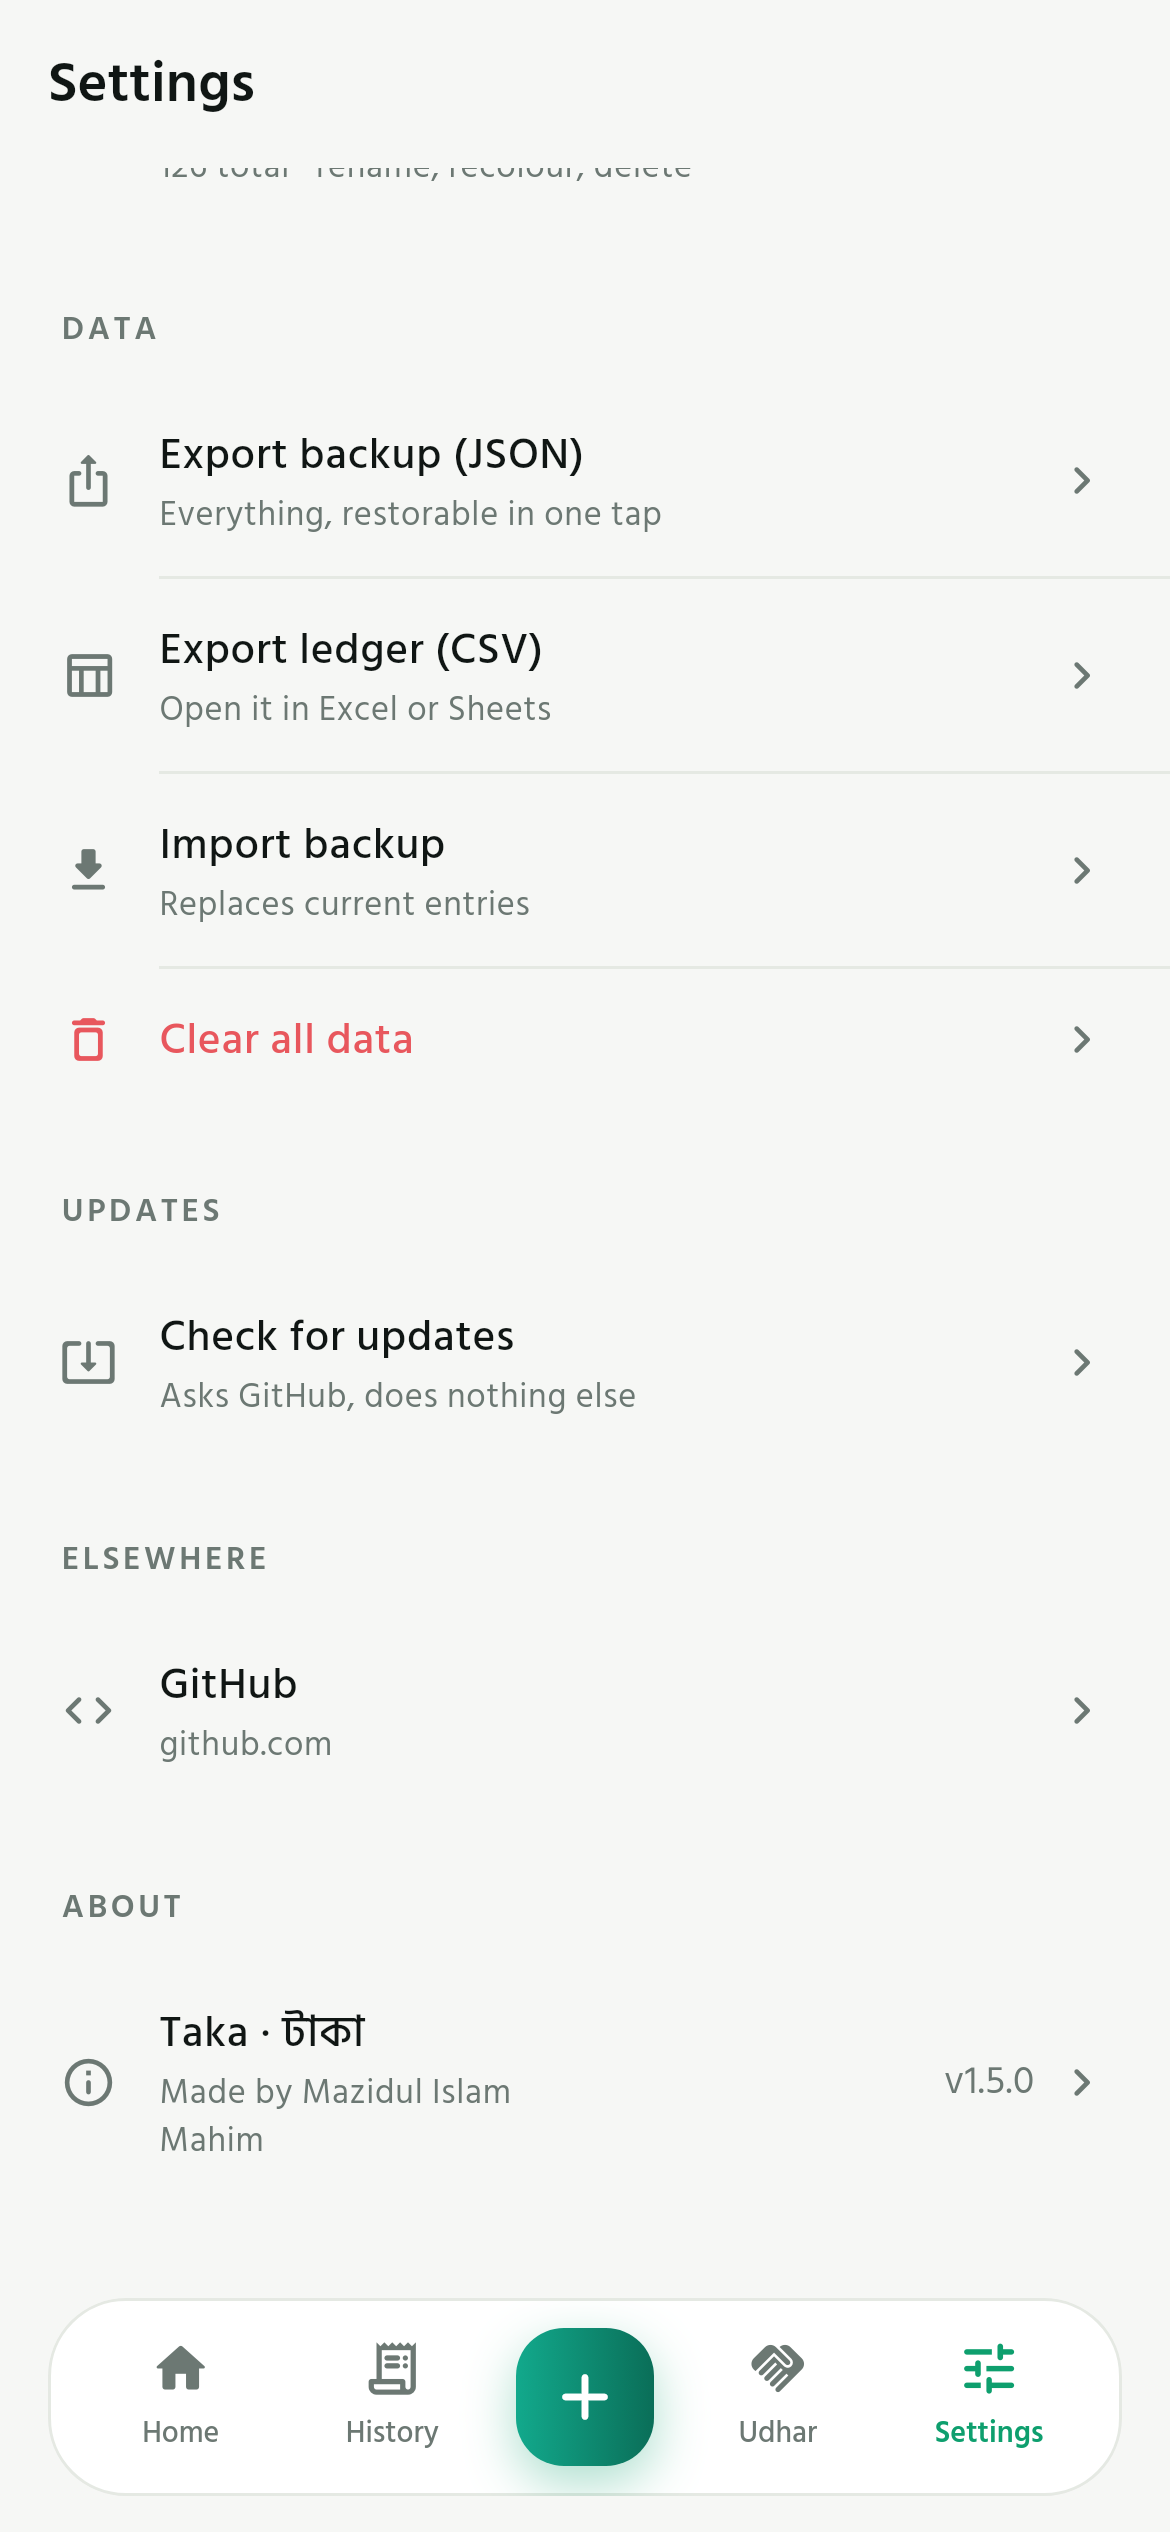
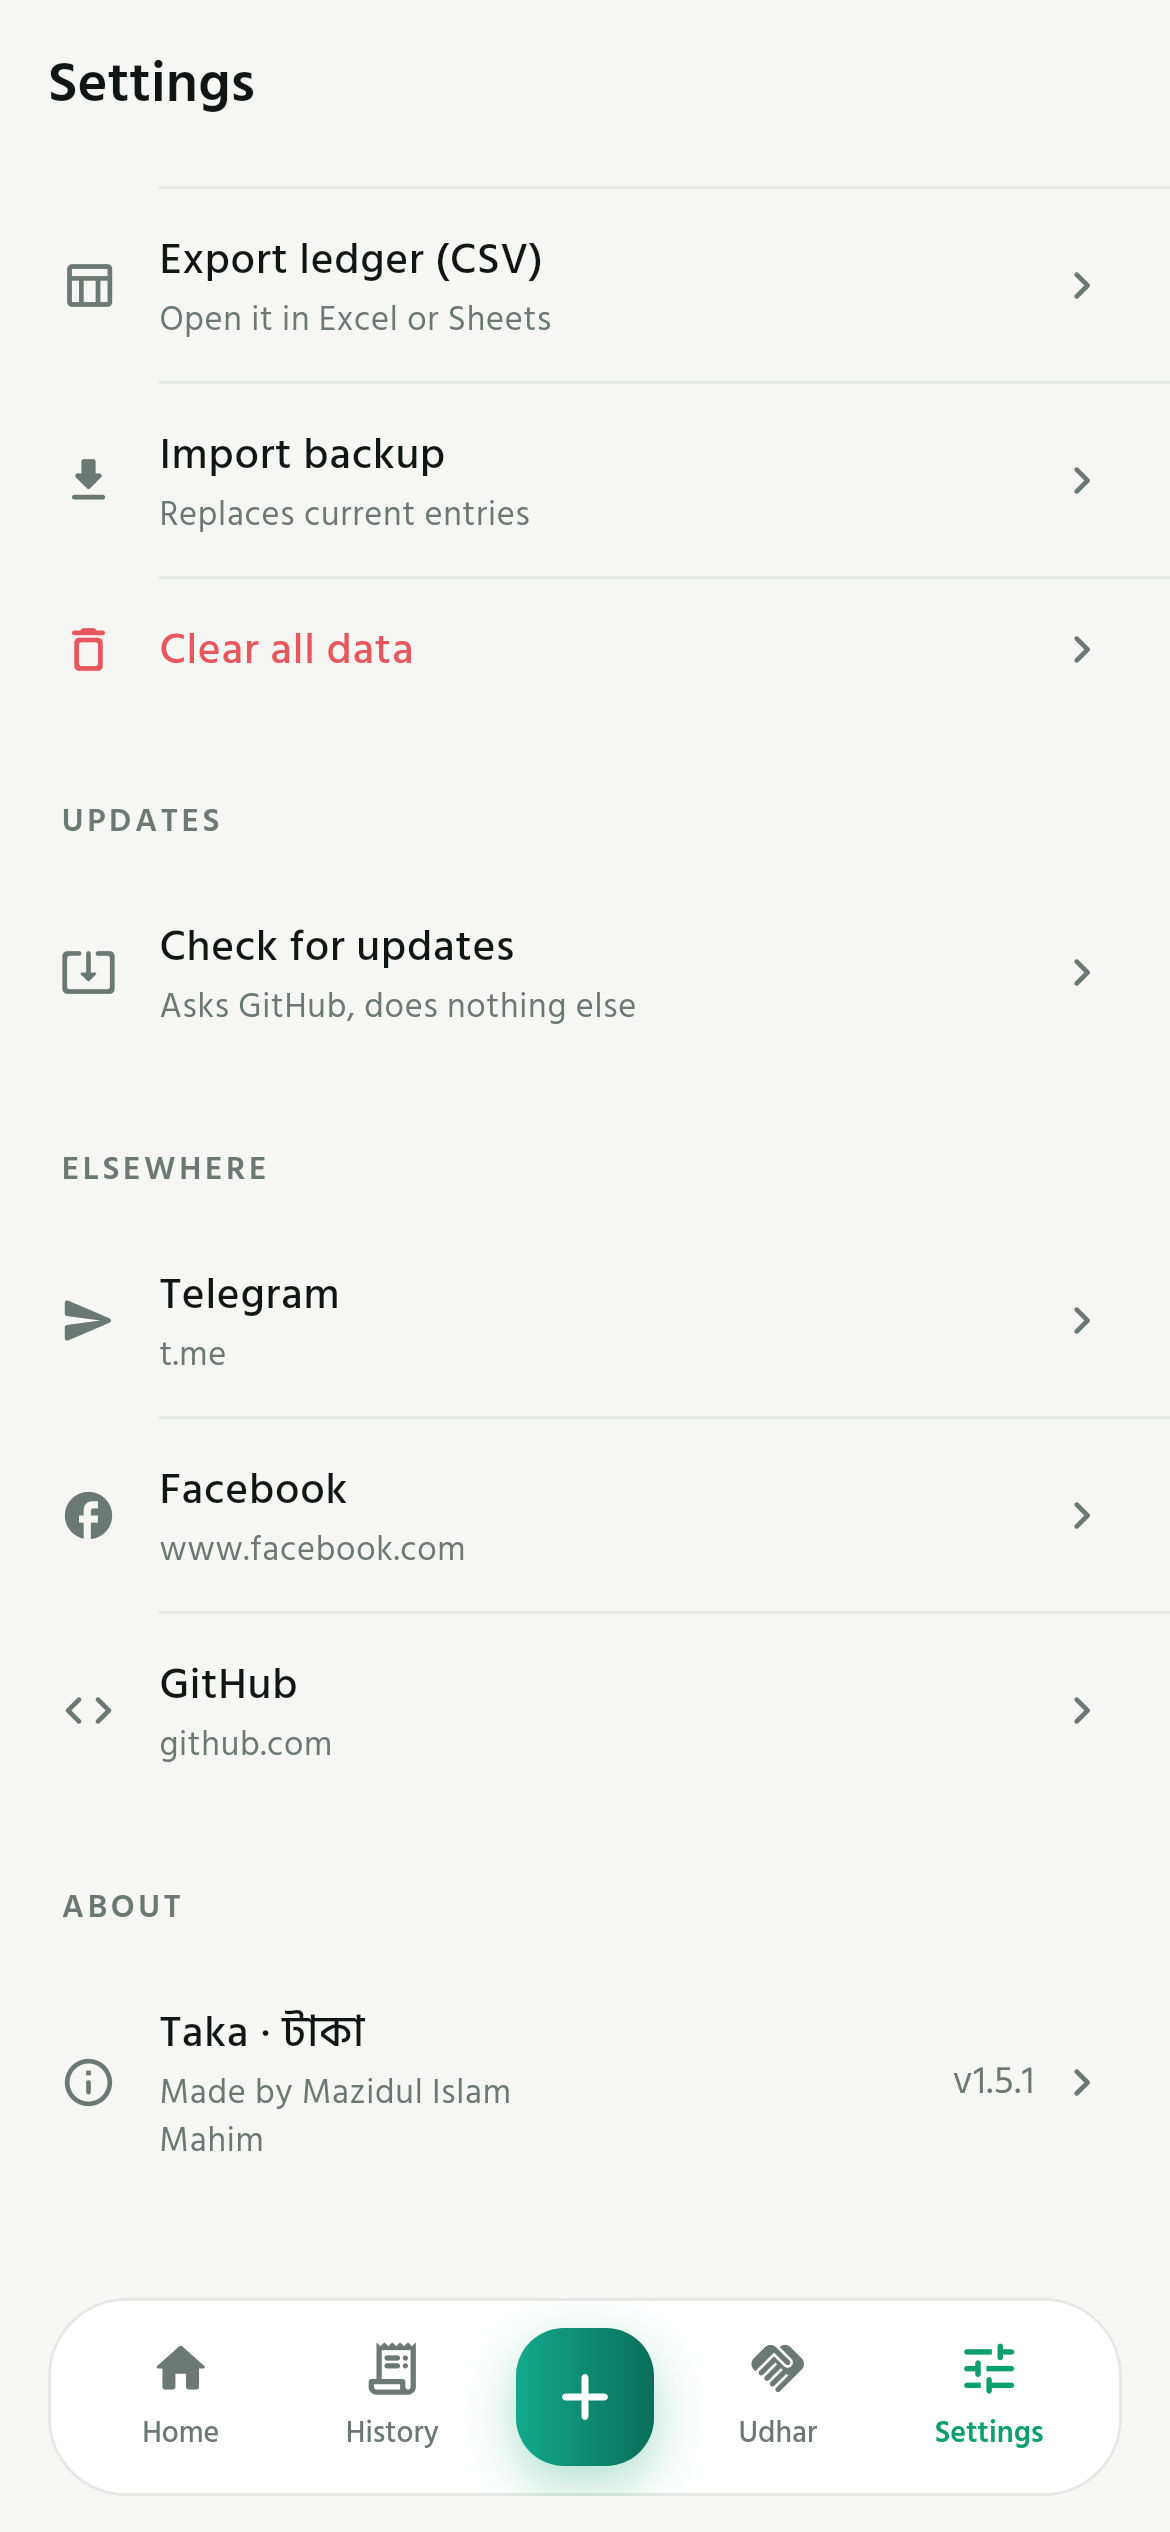
feat(settings): the author's Telegram and Facebook, now that they exist
Elsewhere lists Telegram (@dumbhuman), Facebook and GitHub. The list was already
written to hide a link whose URL is empty, so this is two lines and no layout
change; the screenshot is refreshed and the version goes to 1.5.1 so the release
that carries them is distinguishable from v1.5.0.

diff --git a/lib/core/app_info.dart b/lib/core/app_info.dart
@@ -6,7 +6,7 @@ class AppInfo {
   static const String name = 'Taka';
   static const String nameBn = 'টাকা';
   static const String tagline = 'Amar taka gelota koi?';
-  static const String version = '1.5.0';
+  static const String version = '1.5.1';
 
   /// The person this was built for, and by.
   static const String author = 'Mazidul Islam Mahim';
@@ -25,13 +25,13 @@ class AppInfo {
     SocialLink(
       id: 'telegram',
       label: 'Telegram',
-      url: '',
+      url: 'https://t.me/dumbhuman',
       iconName: 'telegram',
     ),
     SocialLink(
       id: 'facebook',
       label: 'Facebook',
-      url: '',
+      url: 'https://www.facebook.com/notgreatnotterrible',
       iconName: 'facebook',
     ),
     SocialLink(id: 'github', label: 'GitHub', url: repoUrl, iconName: 'github'),

diff --git a/README.md b/README.md
@@ -13,7 +13,7 @@ much of the month is left.
 ![Dart](https://img.shields.io/badge/Dart-3.13-0175C2?logo=dart&logoColor=white)
 ![Android](https://img.shields.io/badge/Android-API%2021%2B-3DDC84?logo=android&logoColor=white)
 ![Tests](https://img.shields.io/badge/tests-77%20passing-0E9F6E)
-[![Download APK](https://img.shields.io/badge/download-v1.5.0%20APK-0E9F6E?logo=android&logoColor=white)](https://github.com/mahimmazidul/taka/releases/latest)
+[![Download APK](https://img.shields.io/badge/download-v1.5.1%20APK-0E9F6E?logo=android&logoColor=white)](https://github.com/mahimmazidul/taka/releases/latest)
 [![Build & Release](https://github.com/mahimmazidul/taka/actions/workflows/release.yml/badge.svg)](https://github.com/mahimmazidul/taka/actions/workflows/release.yml)
 
 ---
@@ -359,6 +359,9 @@ plus the fast-food and carry-over rules):
 - Icons: Material Symbols via `flutter/material`.
 
 ## Changelog
+
+- **v1.5.1** — Settings → *Elsewhere* now actually points somewhere: Telegram
+  (@dumbhuman), Facebook and GitHub. Nothing else changed.
 
 - **v1.5.0** — the month starts where the last one ended. Leftover money carries
   into the new month and the per-day nudge divides what is really left. Search
